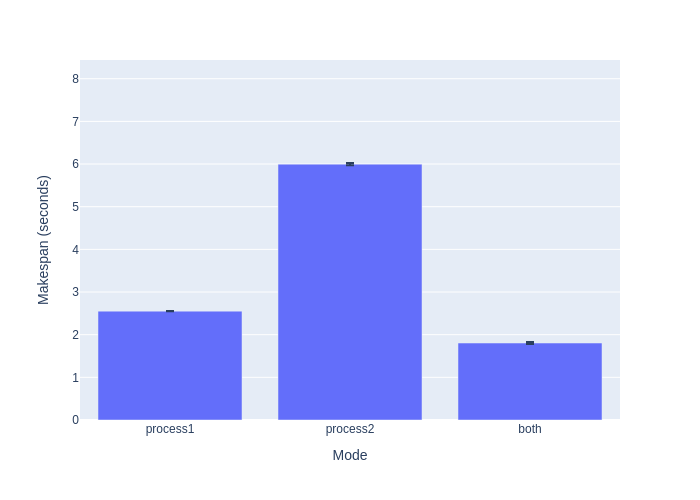
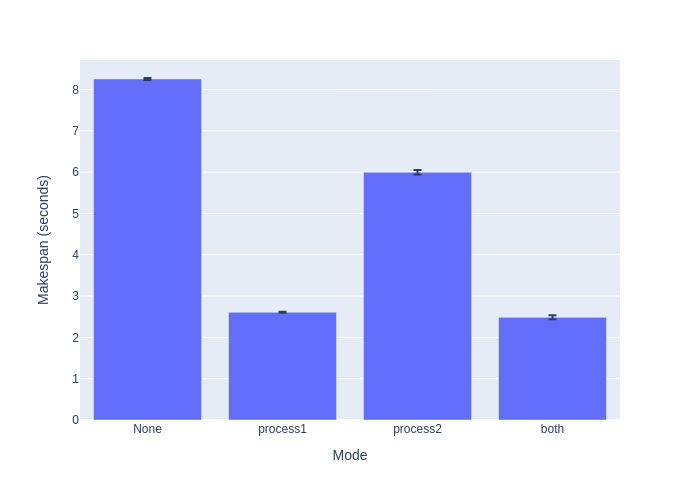
update

Changed region(s): [[0.09, 0.15, 0.87, 0.87], [0.72, 0.84, 0.81, 0.87], [0.18, 0.84, 0.27, 0.87]]

diff --git a/main.py b/main.py
@@ -127,7 +127,7 @@ def main():
     # TODO: Run the program 5 times for each offloading mode, and record the total execution time
     #   Compute the mean and standard deviation of the execution times
     #   Hint: store the results in a pandas DataFrame, use previous labs as a reference
-    d = {'mode': [None, 'process1', 'process2', 'both'],
+    d = {'mode': ['None', 'process1', 'process2', 'both'],
          'total_exec_time': [],
          'mean': [],
          'std_dev': []}
@@ -138,7 +138,10 @@ def main():
         for i in range(0,5):
             print('Trial {}'.format(i))
             start = time.perf_counter()
-            run(mode)
+            if mode == 'None':
+                run(None)
+            else:
+                run(mode)
             end = time.perf_counter()
             exec_time.append(end-start)
             print('Makespan: {}'.format((end-start)))
